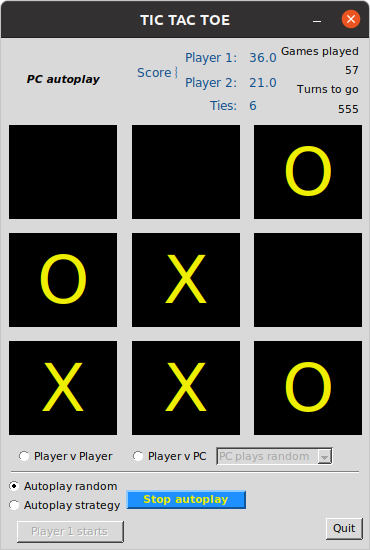
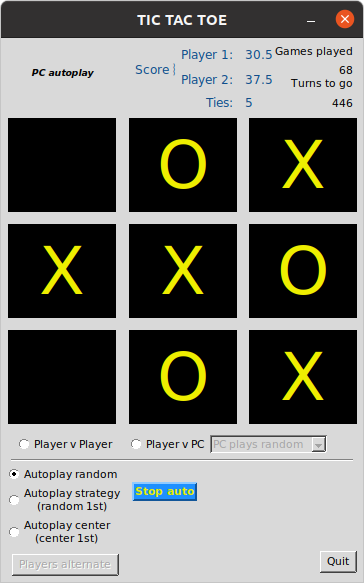
version 0.1.0: update README.md

Changed region(s): [[0.0, 0.0, 0.9973, 0.9891], [0.8764, 0.9273, 0.967, 0.9891], [0.1209, 0.6491, 0.1511, 0.68]]

diff --git a/ttt_utils/platform_check.py b/ttt_utils/platform_check.py
@@ -3,7 +3,7 @@ Check that support system platform is present. Is called from __init__
 at startup. Constant MY_OS used throughout main program.
 Functions: check_platform
 """
-# Copyright (C) 2021 C. Echt under GNU General Public License'
+# Copyright (C) 2021-2022 C.S. Echt under GNU General Public License'
 
 import sys
 import platform

diff --git a/README.md b/README.md
@@ -30,23 +30,24 @@ There are four play modes:
 - Player vs Player
 - Player vs PC (computer)
 - Autoplay, random (computer plays itself randomly)
-- Autoplay, strategy (computer itself with rules)
+- Autoplay, strategy (computer vs. itself with rules, 1st play random)
+- Autoplay, center (like strategy, but 1st play in center)
 
 In Player v PC game mode, you can choose among computer play options:
 - PC plays random
-- PC plays corners
-- PC plays center
-- PC plays strategy.
+- PC plays rules-based strategy
+- PC plays strategy, prefers corners
+- PC play strategy, prefers center
 
 In Autoplay mode, PC plays itself. You can choose to have Player 1 (X) start every game or have both Players alternate game starts. 1000 turns are played at about 3 turns per second. Scores are updated in realtime through the series of about 110 to 130 games. Studying autoplay results in different play modes can be instructive for improving your game strategies!
 
 ### Screenshots
 
-Player 1 wins 1st game in Player v Player mode. Ready for Player 1 to start 2nd game with a click (or with Return/Enter). The result window can be repositioned from its default location.
+Player ties 8th game in Player v PC mode. Game result pop-up window prompts player to play again (or with Return/Enter) or quit. The pop-up window can be repositioned.
 
-![pvp-game](images/player1_wins.png)
+![pvpc-game](images/tie_game_pc.png)
 
-Autoplay random mode with Player 1 starting all games, in progress, with 555 turns remaining:
+Autoplay game in progress with random mode, players alternating start turns, 446 play turns remaining:
 
 ![autoplay-game](images/autoplay.png)
 
